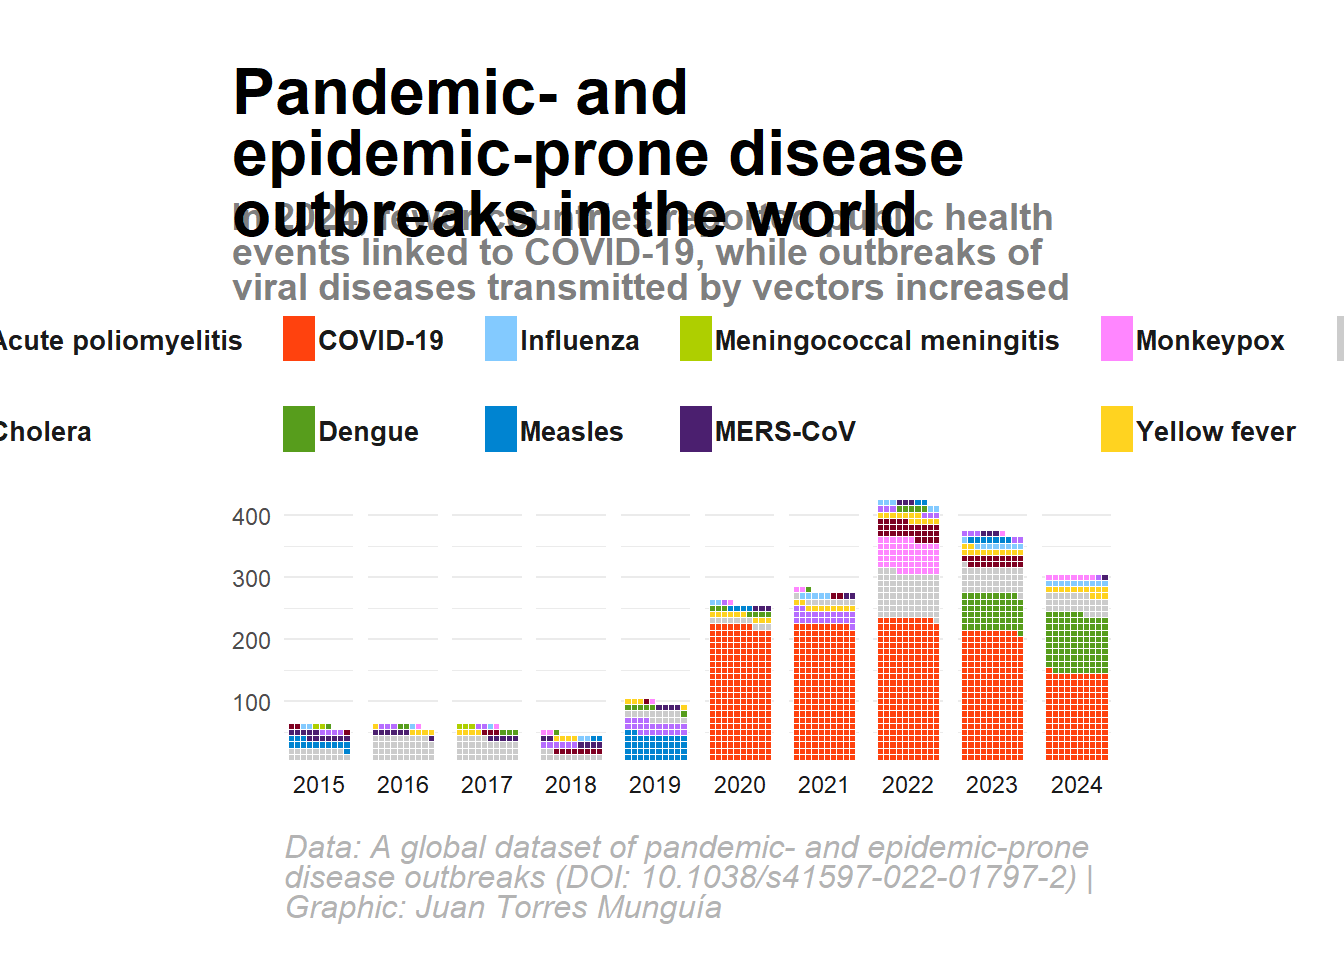
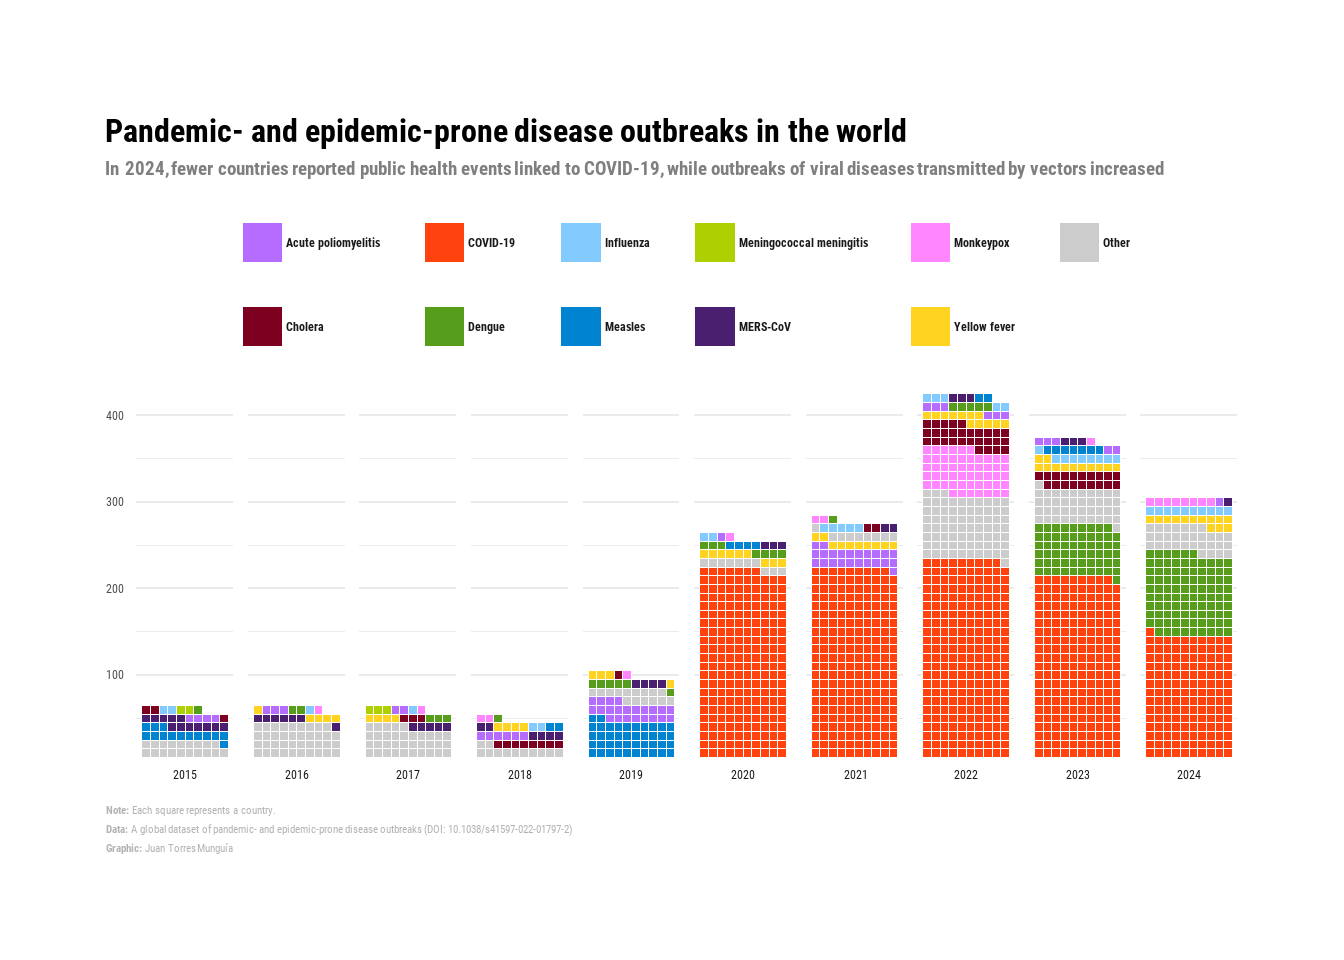
Update plots

diff --git a/docs/blog/posts/waffle_chart_disease_outbreaks/index.html b/docs/blog/posts/waffle_chart_disease_outbreaks/index.html
@@ -124,6 +124,10 @@ pre > code.sourceCode > span > a:first-child::before { text-decoration: underlin
 <span class="menu-text">Blog</span></a>
   </li>  
   <li class="nav-item">
+    <a class="nav-link" href="../../../portfolio/index.html"> 
+<span class="menu-text">DataViz</span></a>
+  </li>  
+  <li class="nav-item">
     <a class="nav-link" href="../../../contact/index.html"> 
 <span class="menu-text">Contact</span></a>
   </li>  
@@ -270,7 +274,12 @@ pre > code.sourceCode > span > a:first-child::before { text-decoration: underlin
 </div>
 </section></section><section id="set-theme-settings-and-define-fonts-colors-and-text-to-be-used-in-the-waffle-chart" class="level2"><h2 class="anchored" data-anchor-id="set-theme-settings-and-define-fonts-colors-and-text-to-be-used-in-the-waffle-chart">Set theme settings and define fonts, colors, and text to be used in the waffle chart</h2>
 <div class="cell">
-<div class="sourceCode" id="cb4"><pre class="downlit sourceCode r code-with-copy"><code class="sourceCode R"><span><span class="co"># Custom theme for the waffle chart</span></span>
+<div class="sourceCode" id="cb4"><pre class="downlit sourceCode r code-with-copy"><code class="sourceCode R"><span><span class="co"># Add custom font</span></span>
+<span><span class="fu"><a href="https://rdrr.io/pkg/sysfonts/man/font_add_google.html">font_add_google</a></span><span class="op">(</span><span class="st">"Roboto Condensed"</span>, <span class="st">"Roboto Condensed"</span><span class="op">)</span> </span>
+<span></span>
+<span><span class="fu"><a href="https://rdrr.io/pkg/showtext/man/showtext_auto.html">showtext_auto</a></span><span class="op">(</span><span class="op">)</span></span>
+<span></span>
+<span><span class="co"># Custom theme for the waffle chart</span></span>
 <span><span class="va">theme_waffle_chart</span> <span class="op">&lt;-</span> <span class="kw">function</span><span class="op">(</span><span class="op">)</span> <span class="op">{</span></span>
 <span>  <span class="fu"><a href="https://ggplot2.tidyverse.org/reference/ggtheme.html">theme_minimal</a></span><span class="op">(</span></span>
 <span>    base_family <span class="op">=</span> <span class="st">"Roboto Condensed"</span> <span class="co"># Base theme with custom font</span></span>
@@ -280,7 +289,7 @@ pre > code.sourceCode > span > a:first-child::before { text-decoration: underlin
 <span>      <span class="co"># Axis settings</span></span>
 <span>      axis.title <span class="op">=</span> <span class="fu"><a href="https://ggplot2.tidyverse.org/reference/element.html">element_blank</a></span><span class="op">(</span><span class="op">)</span>, <span class="co"># Remove axis title</span></span>
 <span>      axis.line <span class="op">=</span> <span class="fu"><a href="https://ggplot2.tidyverse.org/reference/element.html">element_blank</a></span><span class="op">(</span><span class="op">)</span>, <span class="co"># Remove axis line</span></span>
-<span></span>
+<span>      </span>
 <span>      <span class="co"># Title settings</span></span>
 <span>      plot.title.position <span class="op">=</span> <span class="st">"plot"</span>, <span class="co"># Position of the title</span></span>
 <span>      plot.title <span class="op">=</span> <span class="fu"><a href="https://wilkelab.org/ggtext/reference/element_textbox.html">element_textbox</a></span><span class="op">(</span></span>
@@ -290,7 +299,7 @@ pre > code.sourceCode > span > a:first-child::before { text-decoration: underlin
 <span>        margin <span class="op">=</span> <span class="fu"><a href="https://ggplot2.tidyverse.org/reference/element.html">margin</a></span><span class="op">(</span><span class="fl">5</span>, <span class="fl">0</span>, <span class="fl">5</span>, <span class="fl">0</span><span class="op">)</span>, <span class="co"># Top, right, bottom, left</span></span>
 <span>        width <span class="op">=</span> <span class="fu"><a href="https://rdrr.io/r/grid/unit.html">unit</a></span><span class="op">(</span><span class="fl">1</span>, <span class="st">"npc"</span><span class="op">)</span> <span class="co"># Width of the title, npc == 1 corresponds to the full width of the plot</span></span>
 <span>      <span class="op">)</span>,</span>
-<span></span>
+<span>      </span>
 <span>      <span class="co"># Subtitle settings</span></span>
 <span>      plot.subtitle <span class="op">=</span> <span class="fu"><a href="https://wilkelab.org/ggtext/reference/element_textbox.html">element_textbox</a></span><span class="op">(</span></span>
 <span>        color <span class="op">=</span> <span class="st">"grey50"</span>,</span>
@@ -299,31 +308,29 @@ pre > code.sourceCode > span > a:first-child::before { text-decoration: underlin
 <span>        margin <span class="op">=</span> <span class="fu"><a href="https://ggplot2.tidyverse.org/reference/element.html">margin</a></span><span class="op">(</span><span class="fl">0</span>, <span class="fl">0</span>, <span class="fl">10</span>, <span class="fl">0</span><span class="op">)</span>,</span>
 <span>        width <span class="op">=</span> <span class="fu"><a href="https://rdrr.io/r/grid/unit.html">unit</a></span><span class="op">(</span><span class="fl">1</span>, <span class="st">"npc"</span><span class="op">)</span></span>
 <span>      <span class="op">)</span>,</span>
-<span></span>
+<span>      </span>
 <span>      <span class="co"># Legend settings</span></span>
 <span>      legend.position <span class="op">=</span> <span class="st">"top"</span>,</span>
 <span>      legend.title <span class="op">=</span> <span class="fu"><a href="https://ggplot2.tidyverse.org/reference/element.html">element_blank</a></span><span class="op">(</span><span class="op">)</span>,</span>
-<span>      legend.key.height <span class="op">=</span> <span class="fu"><a href="https://rdrr.io/r/grid/unit.html">unit</a></span><span class="op">(</span><span class="fl">0.5</span>, <span class="st">"cm"</span><span class="op">)</span>, <span class="co"># Height of the legend key</span></span>
-<span>      legend.key.width <span class="op">=</span> <span class="fu"><a href="https://rdrr.io/r/grid/unit.html">unit</a></span><span class="op">(</span><span class="fl">0.5</span>, <span class="st">"cm"</span><span class="op">)</span>, <span class="co"># Width of the legend key</span></span>
 <span>      legend.spacing.x <span class="op">=</span> <span class="fu"><a href="https://rdrr.io/r/grid/unit.html">unit</a></span><span class="op">(</span><span class="fl">0.2</span>, <span class="st">"cm"</span><span class="op">)</span>,</span>
 <span>      legend.key.spacing <span class="op">=</span> <span class="fu"><a href="https://rdrr.io/r/grid/unit.html">unit</a></span><span class="op">(</span><span class="fl">0.5</span>, <span class="st">"cm"</span><span class="op">)</span>, <span class="co"># Spacing between legend keys</span></span>
 <span>      legend.text <span class="op">=</span> <span class="fu"><a href="https://ggplot2.tidyverse.org/reference/element.html">element_text</a></span><span class="op">(</span></span>
-<span>        margin <span class="op">=</span> <span class="fu"><a href="https://ggplot2.tidyverse.org/reference/element.html">margin</a></span><span class="op">(</span><span class="fl">5</span>, <span class="fl">0</span>, <span class="fl">5</span>, <span class="fl">0</span><span class="op">)</span>,</span>
+<span>        margin <span class="op">=</span> <span class="fu"><a href="https://ggplot2.tidyverse.org/reference/element.html">margin</a></span><span class="op">(</span><span class="fl">5</span>, <span class="fl">2</span>, <span class="fl">5</span>, <span class="fl">0</span><span class="op">)</span>,</span>
 <span>        face <span class="op">=</span> <span class="st">"bold"</span>,</span>
 <span>        color <span class="op">=</span> <span class="st">"grey10"</span>,</span>
-<span>        size <span class="op">=</span> <span class="fl">10</span></span>
+<span>        size <span class="op">=</span> <span class="fl">9</span></span>
 <span>      <span class="op">)</span>,</span>
 <span>      legend.direction <span class="op">=</span> <span class="st">"horizontal"</span>,</span>
 <span>      legend.byrow <span class="op">=</span> <span class="cn">FALSE</span>,</span>
-<span></span>
+<span>      </span>
 <span>      <span class="co"># Caption settings</span></span>
-<span>      plot.caption <span class="op">=</span> <span class="fu"><a href="https://wilkelab.org/ggtext/reference/element_textbox.html">element_textbox</a></span><span class="op">(</span></span>
+<span>      plot.caption <span class="op">=</span> <span class="fu"><a href="https://wilkelab.org/ggtext/reference/element_markdown.html">element_markdown</a></span><span class="op">(</span></span>
 <span>        color <span class="op">=</span> <span class="st">"grey70"</span>,</span>
-<span>        face <span class="op">=</span> <span class="st">"italic"</span>,</span>
-<span>        size <span class="op">=</span> <span class="fl">12</span>,</span>
-<span>        margin <span class="op">=</span> <span class="fu"><a href="https://ggplot2.tidyverse.org/reference/element.html">margin</a></span><span class="op">(</span><span class="fl">10</span>, <span class="fl">0</span>, <span class="fl">5</span>, <span class="fl">0</span><span class="op">)</span>,</span>
-<span>        width <span class="op">=</span> <span class="fu"><a href="https://rdrr.io/r/grid/unit.html">unit</a></span><span class="op">(</span><span class="fl">1</span>, <span class="st">"npc"</span><span class="op">)</span></span>
-<span>      <span class="op">)</span>,</span>
+<span>        size <span class="op">=</span> <span class="fl">8</span>,</span>
+<span>        hjust <span class="op">=</span> <span class="fl">0</span></span>
+<span>          <span class="op">)</span>,</span>
+<span>      plot.caption.position <span class="op">=</span> <span class="st">"plot"</span>,</span>
+<span></span>
 <span>      plot.background <span class="op">=</span> <span class="fu"><a href="https://ggplot2.tidyverse.org/reference/element.html">element_rect</a></span><span class="op">(</span></span>
 <span>        color <span class="op">=</span> <span class="st">"white"</span>,</span>
 <span>        fill <span class="op">=</span> <span class="st">"white"</span></span>
@@ -335,13 +342,18 @@ pre > code.sourceCode > span > a:first-child::before { text-decoration: underlin
 <span><span class="co"># Title, subtitle, and caption for the waffle chart</span></span>
 <span><span class="va">title_chart</span> <span class="op">&lt;-</span> <span class="st">"Pandemic- and epidemic-prone disease outbreaks in the world"</span></span>
 <span><span class="va">subtitle_chart</span> <span class="op">&lt;-</span> <span class="st">"In 2024, fewer countries reported public health events linked to COVID-19, while outbreaks of viral diseases transmitted by vectors increased"</span></span>
-<span><span class="va">caption_chart</span> <span class="op">&lt;-</span> <span class="st">"Data: A global dataset of pandemic- and epidemic-prone disease outbreaks (DOI: 10.1038/s41597-022-01797-2) | Graphic: Juan Torres Munguía"</span></span>
+<span><span class="va">caption_chart</span> <span class="op">&lt;-</span> <span class="fu"><a href="https://rdrr.io/r/base/paste.html">paste0</a></span><span class="op">(</span><span class="st">"**Note:** Each square represents a country."</span>,</span>
+<span>                        <span class="st">"&lt;br&gt;"</span>, </span>
+<span>                        <span class="st">"**Data:** A global dataset of pandemic- and epidemic-prone disease outbreaks (DOI: 10.1038/s41597-022-01797-2)"</span>,</span>
+<span>                        <span class="st">"&lt;br&gt;"</span>, </span>
+<span>                        <span class="st">"**Graphic:** Juan Torres Munguía"</span></span>
+<span>                        <span class="op">)</span></span>
 <span></span>
 <span><span class="co"># Define the colors to be used in the waffle chart</span></span>
 <span><span class="va">colors</span> <span class="op">&lt;-</span> <span class="fu"><a href="https://rdrr.io/r/base/c.html">c</a></span><span class="op">(</span></span>
 <span>  <span class="st">"#B66DFF"</span>, <span class="st">"#7e0021"</span>, <span class="st">"#ff420e"</span>, <span class="st">"#579d1c"</span>, <span class="st">"#83caff"</span>,</span>
 <span>  <span class="st">"#0084d1"</span>, <span class="st">"#aecf00"</span>, <span class="st">"#4b1f6f"</span>, <span class="st">"#FF86FF"</span>, <span class="st">"#ffd320"</span>, <span class="st">"grey80"</span></span>
-<span><span class="op">)</span></span></code><button title="Copy to Clipboard" class="code-copy-button"><i class="bi"></i></button></pre></div>
+<span>  <span class="op">)</span></span></code><button title="Copy to Clipboard" class="code-copy-button"><i class="bi"></i></button></pre></div>
 </div>
 </section><section id="create-the-waffle-chart" class="level2"><h2 class="anchored" data-anchor-id="create-the-waffle-chart">Create the waffle chart</h2>
 <div class="cell">
@@ -357,8 +369,8 @@ pre > code.sourceCode > span > a:first-child::before { text-decoration: underlin
 <span>    make_proportional <span class="op">=</span> <span class="cn">FALSE</span></span>
 <span>  <span class="op">)</span> <span class="op">+</span> <span class="co"># Do not make the waffle chart proportional</span></span>
 <span>  <span class="fu"><a href="https://ggplot2.tidyverse.org/reference/facet_wrap.html">facet_wrap</a></span><span class="op">(</span><span class="op">~</span><span class="va">Year</span>, <span class="co"># Facet the waffle chart by year</span></span>
-<span>    nrow <span class="op">=</span> <span class="fl">1</span>,</span>
-<span>    strip.position <span class="op">=</span> <span class="st">"bottom"</span></span>
+<span>             nrow <span class="op">=</span> <span class="fl">1</span>,</span>
+<span>             strip.position <span class="op">=</span> <span class="st">"bottom"</span></span>
 <span>  <span class="op">)</span> <span class="op">+</span> <span class="co"># Position of the facet strip</span></span>
 <span>  <span class="fu"><a href="https://ggplot2.tidyverse.org/reference/scale_manual.html">scale_fill_manual</a></span><span class="op">(</span>values <span class="op">=</span> <span class="va">colors</span><span class="op">)</span> <span class="op">+</span></span>
 <span>  <span class="fu"><a href="https://ggplot2.tidyverse.org/reference/scale_discrete.html">scale_x_discrete</a></span><span class="op">(</span><span class="op">)</span> <span class="op">+</span></span>
@@ -375,7 +387,8 @@ pre > code.sourceCode > span > a:first-child::before { text-decoration: underlin
 <span>    y <span class="op">=</span> <span class="st">"Total number of outbreaks"</span>,</span>
 <span>    fill <span class="op">=</span> <span class="st">""</span></span>
 <span>  <span class="op">)</span> <span class="op">+</span></span>
-<span>  <span class="fu"><a href="https://ggplot2.tidyverse.org/reference/guides.html">guides</a></span><span class="op">(</span>fill <span class="op">=</span> <span class="fu"><a href="https://ggplot2.tidyverse.org/reference/guide_legend.html">guide_legend</a></span><span class="op">(</span>nrow <span class="op">=</span> <span class="fl">2</span><span class="op">)</span><span class="op">)</span> <span class="op">+</span> <span class="co"># Number of rows in the legend</span></span>
+<span>  <span class="fu"><a href="https://ggplot2.tidyverse.org/reference/guides.html">guides</a></span><span class="op">(</span>fill <span class="op">=</span> <span class="fu"><a href="https://ggplot2.tidyverse.org/reference/guide_legend.html">guide_legend</a></span><span class="op">(</span>nrow <span class="op">=</span> <span class="fl">2</span> <span class="co"># Number of rows in the legend</span></span>
+<span>                             <span class="op">)</span><span class="op">)</span> <span class="op">+</span> </span>
 <span>  <span class="fu">theme_waffle_chart</span><span class="op">(</span><span class="op">)</span></span></code><button title="Copy to Clipboard" class="code-copy-button"><i class="bi"></i></button></pre></div>
 </div>
 </section><section id="save-the-waffle-chart-as-an-image" class="level2"><h2 class="anchored" data-anchor-id="save-the-waffle-chart-as-an-image">Save the waffle chart as an image</h2>
@@ -384,7 +397,7 @@ pre > code.sourceCode > span > a:first-child::before { text-decoration: underlin
 <span><span class="fu"><a href="https://ggplot2.tidyverse.org/reference/ggsave.html">ggsave</a></span><span class="op">(</span></span>
 <span>  <span class="st">"waffle-pandemics.png"</span>,</span>
 <span>  dpi <span class="op">=</span> <span class="fl">320</span>,</span>
-<span>  width <span class="op">=</span> <span class="fl">12</span>,</span>
+<span>  width <span class="op">=</span> <span class="fl">14</span>,</span>
 <span>  height <span class="op">=</span> <span class="fl">7</span>,</span>
 <span>  units <span class="op">=</span> <span class="st">"in"</span></span>
 <span><span class="op">)</span></span>

diff --git a/docs/blog/index.html b/docs/blog/index.html
@@ -482,7 +482,7 @@ Jan 27, 2025
 </div>
 </a>
 </div>
-<div class="g-col-1" data-index="5" data-categories="data visualization,disease outbreaks,epidemics,pandemics,tidyverse,ggplot2,waffle chart" data-listing-date-sort="1736661600000" data-listing-file-modified-sort="1743455078193" data-listing-date-modified-sort="NaN" data-listing-reading-time-sort="8" data-listing-word-count-sort="1498">
+<div class="g-col-1" data-index="5" data-categories="data visualization,disease outbreaks,epidemics,pandemics,tidyverse,ggplot2,waffle chart" data-listing-date-sort="1736661600000" data-listing-file-modified-sort="1744738371459" data-listing-date-modified-sort="NaN" data-listing-reading-time-sort="9" data-listing-word-count-sort="1662">
 <a href="../blog/posts/waffle_chart_disease_outbreaks/index.html" class="quarto-grid-link">
 <div class="quarto-grid-item card h-100 card-left">
 <p class="card-img-top">
